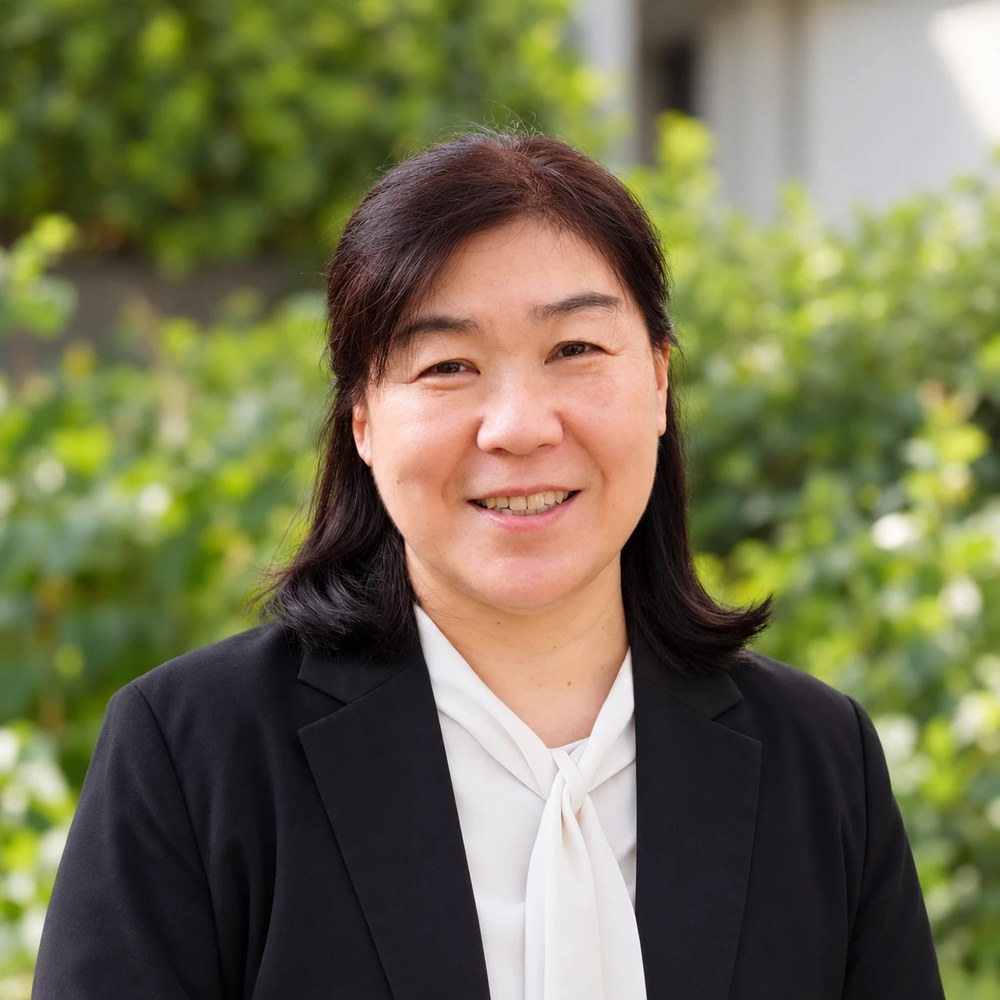
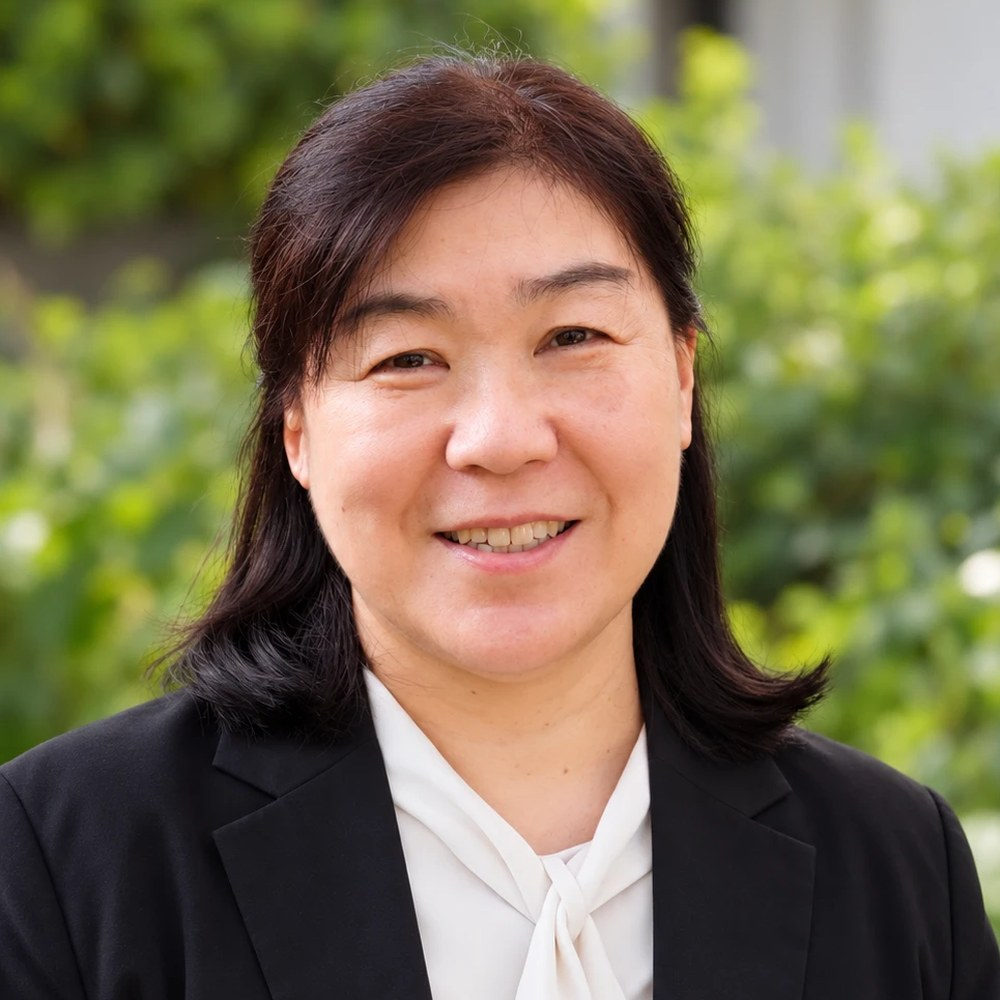
Enlarge Sawa profile photo crop

diff --git a/index.html b/index.html
@@ -2385,7 +2385,7 @@ const PEOPLE_DATA = {
       nameEn: 'Chika Sawa',
       positionJa: '准教授',
       positionEn: 'Associate Professor',
-      photo: 'chika-sawa.jpg',
+      photo: 'chika-sawa.jpg?v=2',
       interests: [],
       researchmap: 'https://researchmap.jp/chika_sawa'
     },
